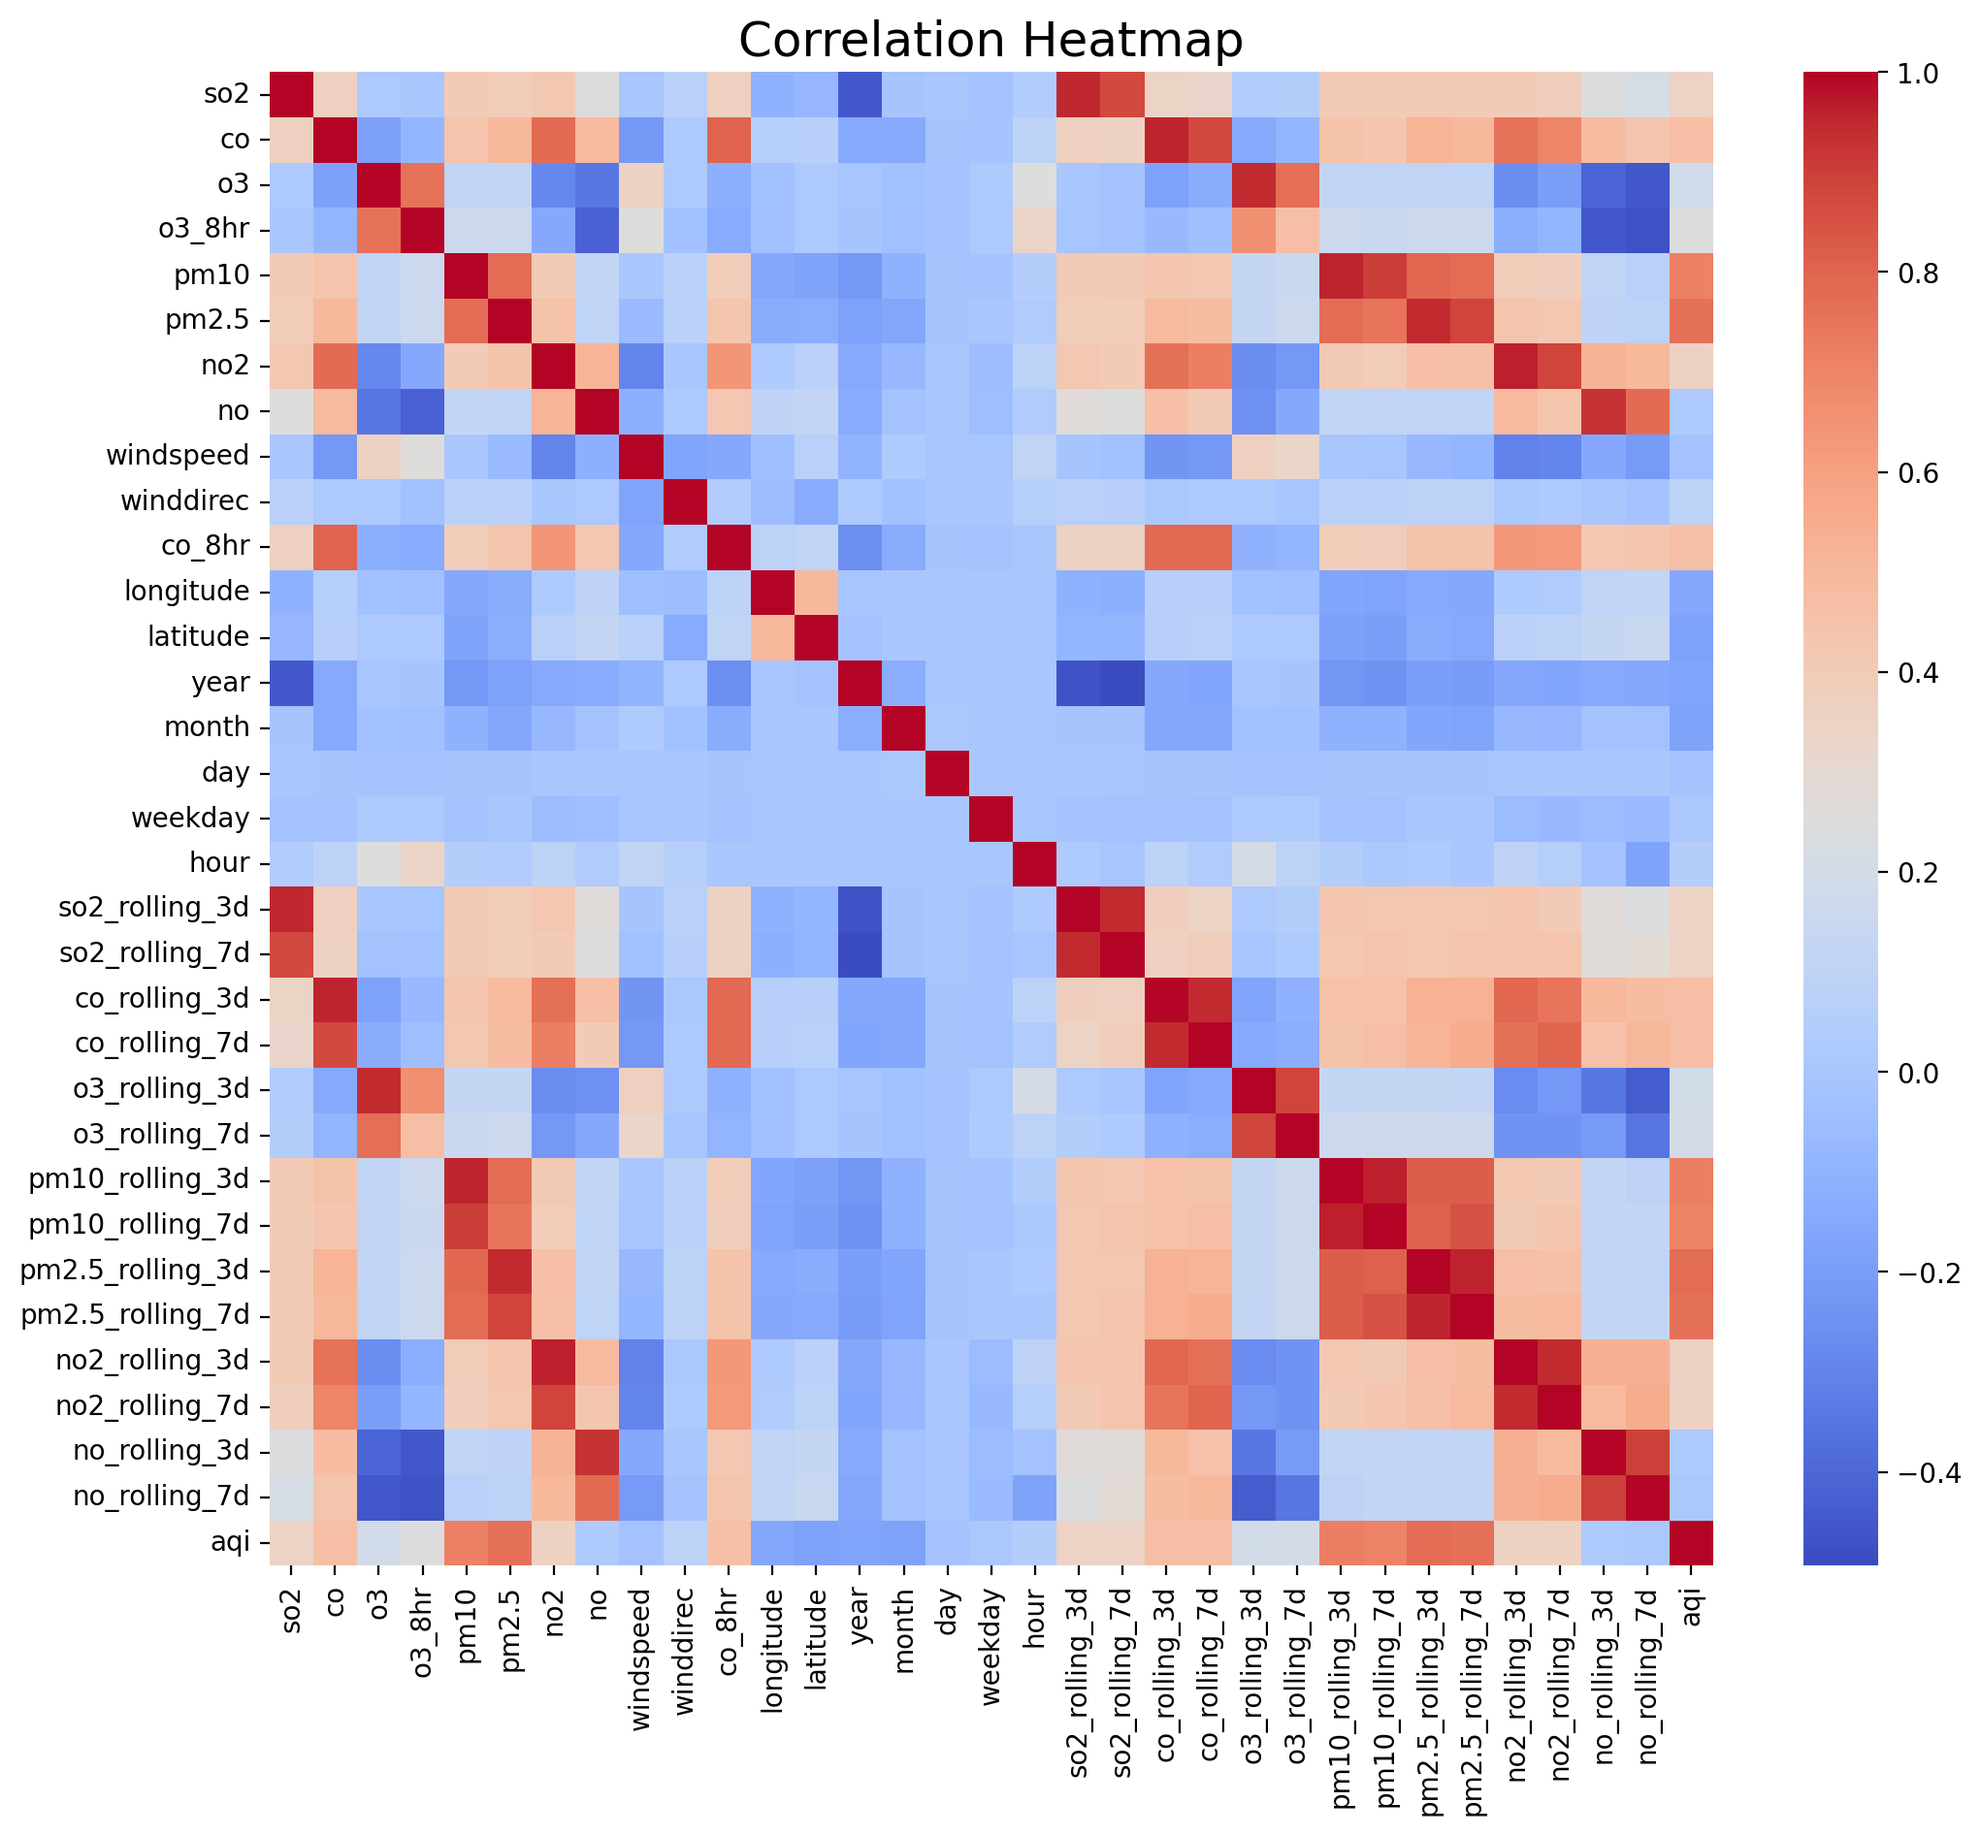
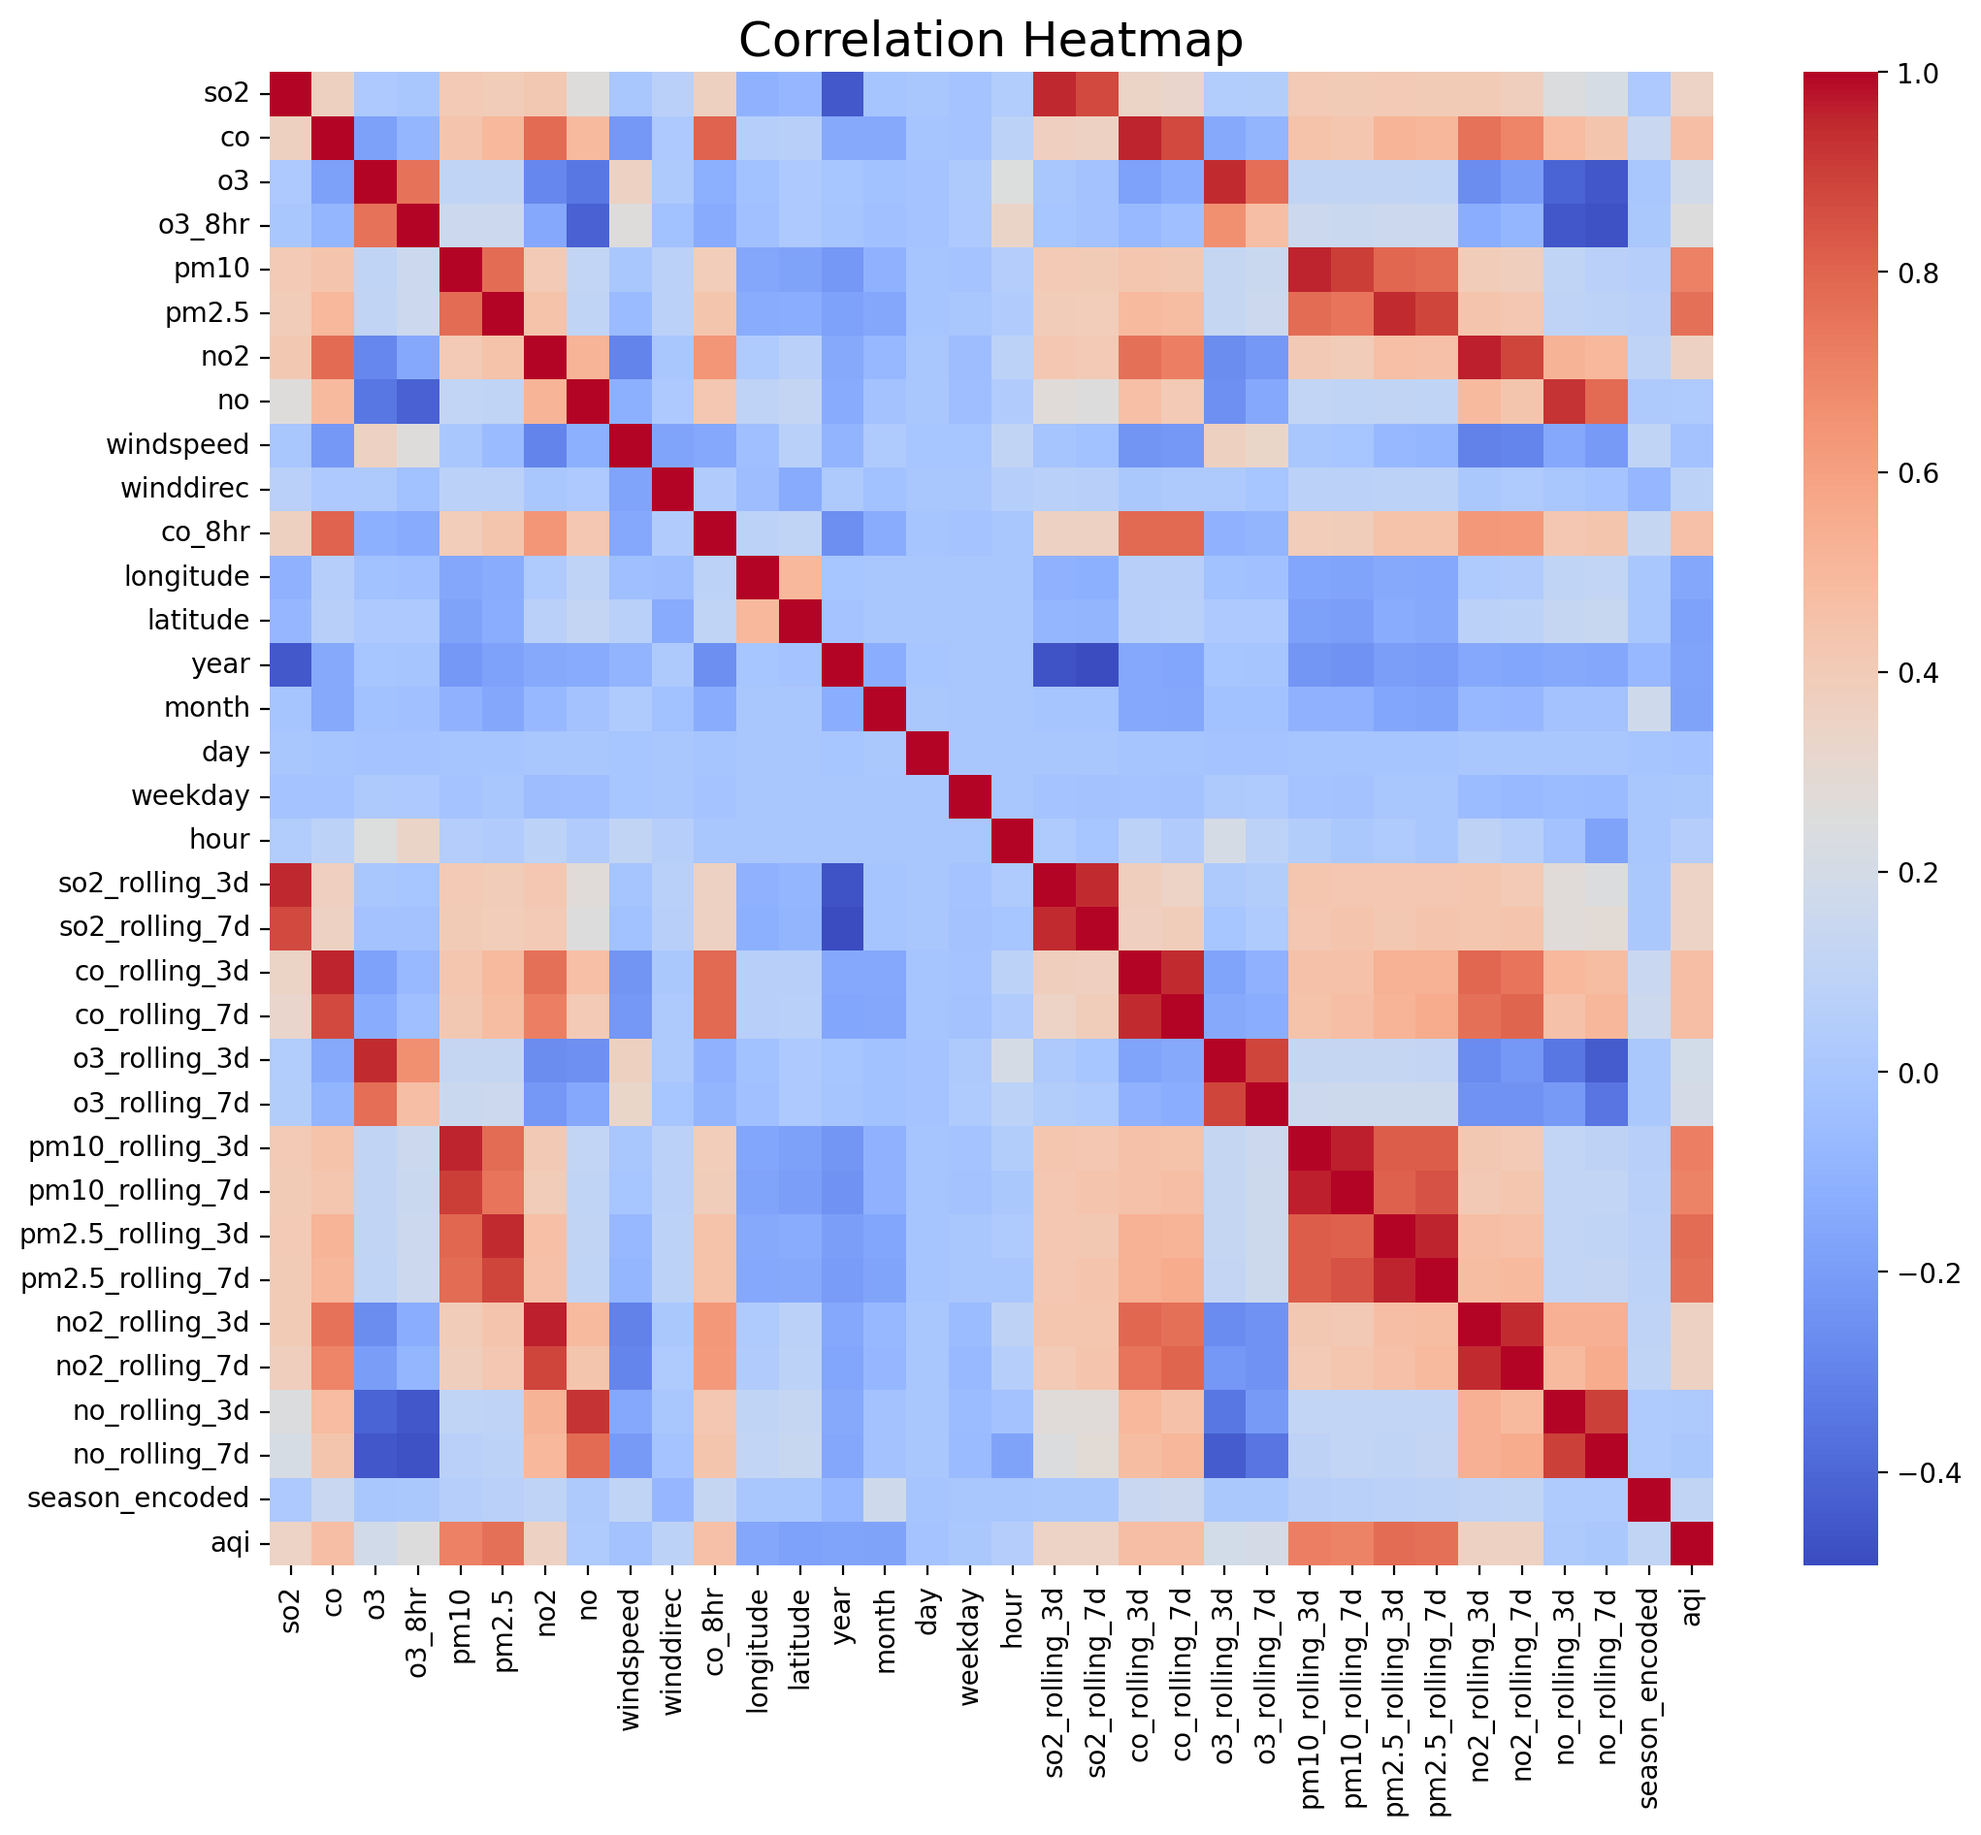
Add time_feature and rerun the lgbm model again.

Changed region(s): [[0.0, 0.0312, 0.8639, 0.9979], [0.1543, 0.0624, 0.1851, 0.0936]]

diff --git a/src/main_modeling.py b/src/main_modeling.py
@@ -27,16 +27,14 @@ import pandas as pd
 from src.config import MODEL_DIR, PROCESSED_DIR
 from src.features.feature_engineering import (
     add_rolling_features,
+    add_time_features,
     clip_pollutants,
     handle_outliers_iqr,
     log_transform_features,
     scale_features,
 )
 from src.modeling.model_registry import MODEL_REGISTRY
-from src.modeling.train_baseline import (
-    build_features,
-    split_train_test,
-)
+from src.modeling.train_baseline import build_features, split_train_test
 from src.utils.emoji_log import done, error
 from src.utils.IO_file import convert_csv_to_parquet
 
@@ -95,6 +93,9 @@ def run_model_pipeline(filename: str, model_type: str = "linear", sample_frac=0.
 
     # Step 4: Log-transform skewed pollutants
     df = log_transform_features(df)
+
+    # Step 5: Add temporal feature
+    df = add_time_features(df)
 
     # === 3. Feature selection & scaling ===
     X, y = build_features(df)

diff --git a/src/features/feature_engineering.py b/src/features/feature_engineering.py
@@ -170,3 +170,25 @@ def scale_features(
             raise ValueError("Scaler must be provided in test mode.")
         df_scaled[cols_to_scale] = scaler.transform(df_scaled[cols_to_scale])
         return df_scaled
+
+
+# -----------------------------
+# 6. add_time_features
+# -----------------------------
+def add_time_features(df: pd.DataFrame):
+    """
+    Encode season from string to integer.
+    (Year, Month, Weekday already exist in raw data)
+    """
+    df = df.copy()
+
+    # Mapping Season
+    season_map = {"Spring": 1, "Summer": 2, "Autumn": 3, "Winter": 4}
+
+    if "season" in df.columns:
+        df["season_encoded"] = df["season"].map(season_map)
+        # Fill Nan if any
+        df["season_encoded"] = df["season_encoded"].fillna(0).astype(int)
+        success("Season encoded successfully.")
+
+    return df

diff --git a/src/app/backend.py b/src/app/backend.py
@@ -5,6 +5,7 @@ import streamlit as st
 from src.config import MODEL_DIR, MODEL_LGBM_DIR, PROCESSED_DIR
 from src.features.feature_engineering import (
     add_rolling_features,
+    add_time_features,
     clip_pollutants,
     handle_outliers_iqr,
     log_transform_features,
@@ -57,8 +58,9 @@ def process_and_predict(input_df, model):
     df = input_df.copy()
     df = clip_pollutants(df)
     df = handle_outliers_iqr(df)
-    df = log_transform_features(df)
     df = add_rolling_features(df)
+    df = log_transform_features(df)
+    df = add_time_features(df)
     df = df.drop(columns=["date", "county", "sitename", "status", "aqi", "season"])
 
     # Scaling

diff --git a/src/main_visualization.py b/src/main_visualization.py
@@ -98,4 +98,4 @@ def run_all_visualizations(model_type="linear"):
 
 
 if __name__ == "__main__":
-    run_all_visualizations("rf")
+    run_all_visualizations("lgbm")
